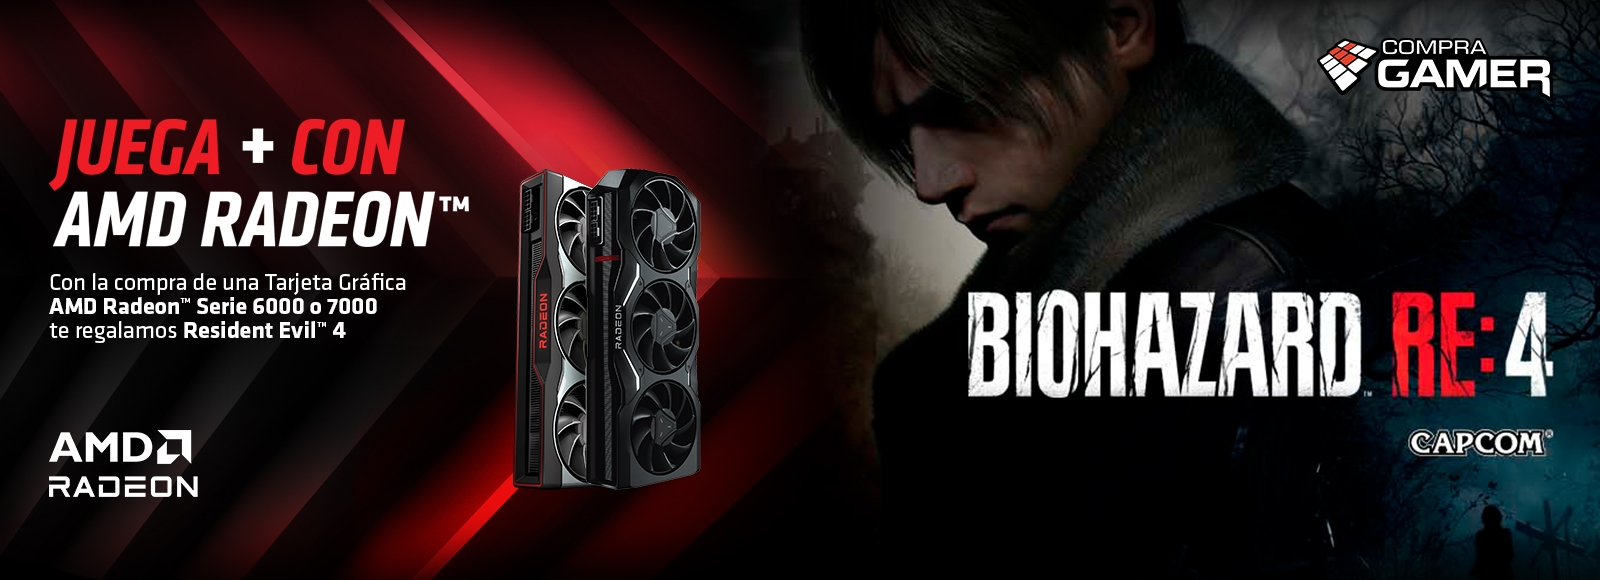
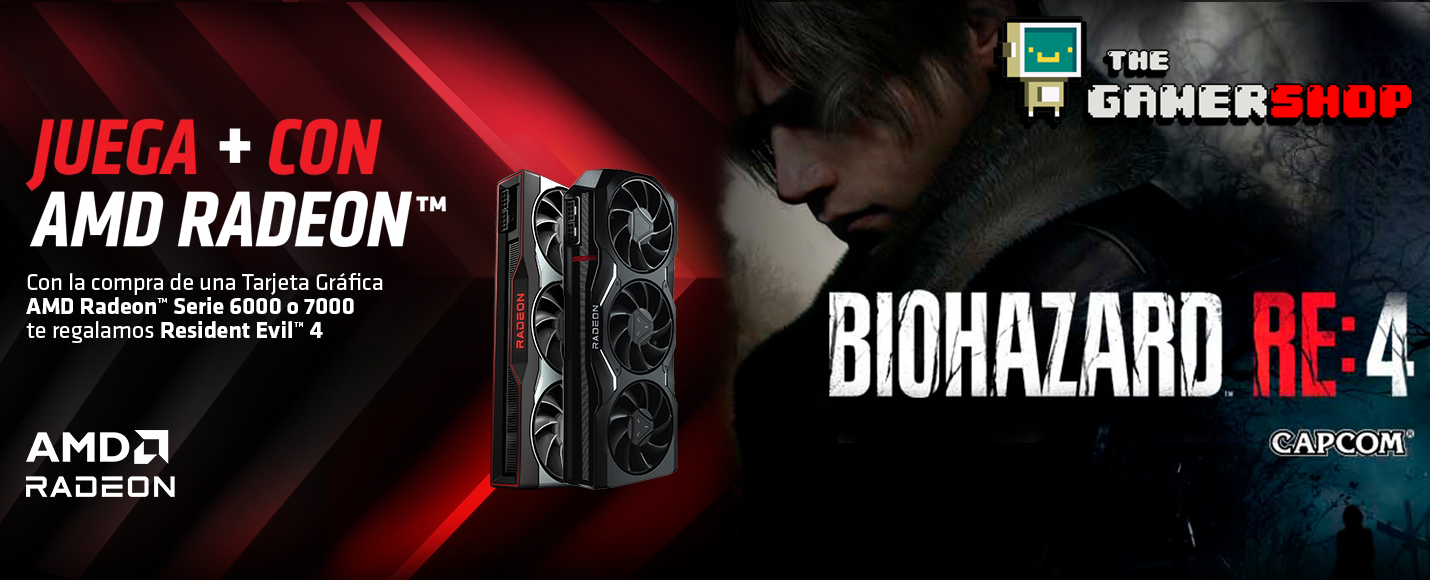
se achica imagen y se posicionan flechas

diff --git a/style.css b/style.css
@@ -9,6 +9,7 @@
 * {
   font-family: 'Poppins', sans-serif;
   background-color: var(--darkblue);
+  background: none;
   color: var(creamywhite);
 }
 
@@ -25,9 +26,11 @@
   position: relative;
   display: flex;
   justify-content: center;
+  background: black;
 }
 
 .navbar {
+  background: black;
   display: flex;
   justify-content: center;
   height: 60px;

diff --git a/carrousel.css b/carrousel.css
@@ -5,7 +5,9 @@
   width: 100%;
 }
 .slidercontainer {
+  max-width: 1000px;
   position: relative;
+  margin: auto;
   margin-top: 20px;
 }
 .left,
@@ -20,8 +22,12 @@
   margin-top: -22px;
 }
 .right {
-  right: 0;
+  right: -50px;
   border-radius: 3px 0 0 3px;
+}
+
+.left {
+  left: -50px;
 }
 
 .left > .arrow,
